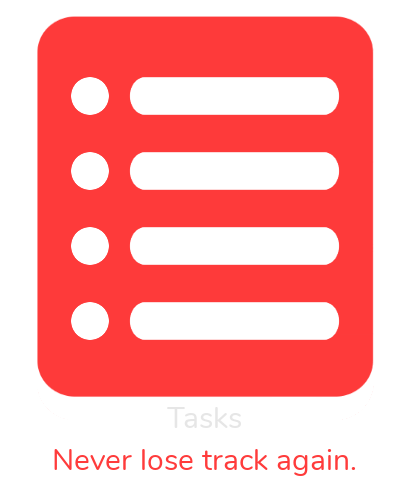
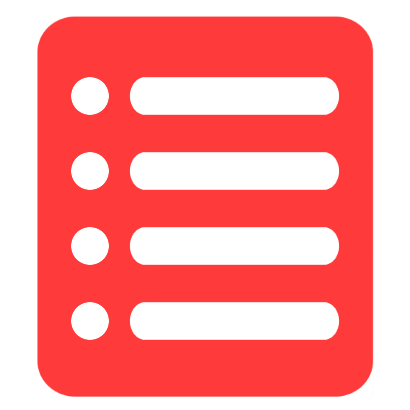
Redesigned homepage

diff --git a/assets/css/style.css b/assets/css/style.css
@@ -129,17 +129,65 @@ html, body {
   color: #ff3b3b;
 }
 
-/* Slogan */
-#slogan {
-  font-family: 'Comfortaa', cursive;
-  font-size: 3.75em; /* 3.75em = 3.75x default font size */
-  text-align: center;
-  margin-top: 140px;
+/* Function showcase portion of the homepage */
+#function-showcase {
+  top: 0;
+  bottom: 0;
+  left: 0;
+  right: 0;
+  margin-left: auto;
+  margin-right: auto;
+  border-radius: 5px;
+  padding-top: 100px;
+  width: 820px;
+  height: 500px;
+  margin-top: 200px;
+  background-color: rgba(31, 31, 31, 0.85);
 }
 
-/* Timetable and tasks icons */
-#big-buttons {
-  text-align: center;
+/* Task image */
+#task-icon {
+  float: left;
+  width: 300px;
+  height: 300px;
+}
+
+/* Tasks info box */
+#tasks-info {
+  float: left;
+  display: inline;
+  width: auto;
+  height: 300px;
+}
+
+#tasks-info-header {
+  font-size: 1.875em;
+}
+
+.tasks-info-text {
+  font-family: 'Nunito', cursive;
+  font-size: 1em;
+  color: #E6E6E6;
+}
+
+#go-to-tasks {
+  margin-top: 32px;
+  width: auto;
+  padding: 5px 20px;
+  border: 2px solid white;
+  border-radius: 4px;
+  cursor: pointer;
+  background-color: transparent;
+  font-family: 'Nunito', cursive;
+  font-size: 1.25em; /* 1.25em = 1.25 * default font size */
+  color: white;
+  transition: 1s;
+  transition: 0.5s;
+}
+
+#go-to-tasks:hover {
+  color: #FF3B3B;
+  border-color: #FF3B3B;
 }
 
 /* Tasks control bar */

diff --git a/home.html b/home.html
@@ -36,12 +36,16 @@
     <p id="logo"><span id="silver-firsthalf">Study</span><span id="red-secondhalf">Hub</span></p>
   </div>
 
-  <!-- Website slogan. -->
-  <p id="slogan"><span id="silver-firsthalf">All of your study needs. </span><span id="red-secondhalf">All in one place.</span></p>
-
-  <!-- Wrapper for the timetable and tasks big buttons. -->
-  <div id="big-buttons">
-    <a href="tasks.html"><img hspace="75" src="assets/img/tasks-big-sized.png"/></a>
+  <!-- Wrapper for the tasks introduction div. -->
+  <div id="function-showcase">
+    <img id="task-icon" hspace="20" src="assets/img/tasks-big-sized.png"/>
+    <div id="tasks-info">
+      <p class="tasks-info-text" id="tasks-info-header"><span id="red-secondhalf">Tasks</span></p>
+      <p class="tasks-info-text">Never forget your work again.</p>
+      <p class="tasks-info-text">Add, edit or delete tasks in a matter of seconds.</p>
+      <p class="tasks-info-text">Find what's important with sorting by name, subject or date.</p>
+      <button id="go-to-tasks" onclick="window.location = 'tasks.html'">Get started now</button>
+    </div>
   </div>
 </body>
 
